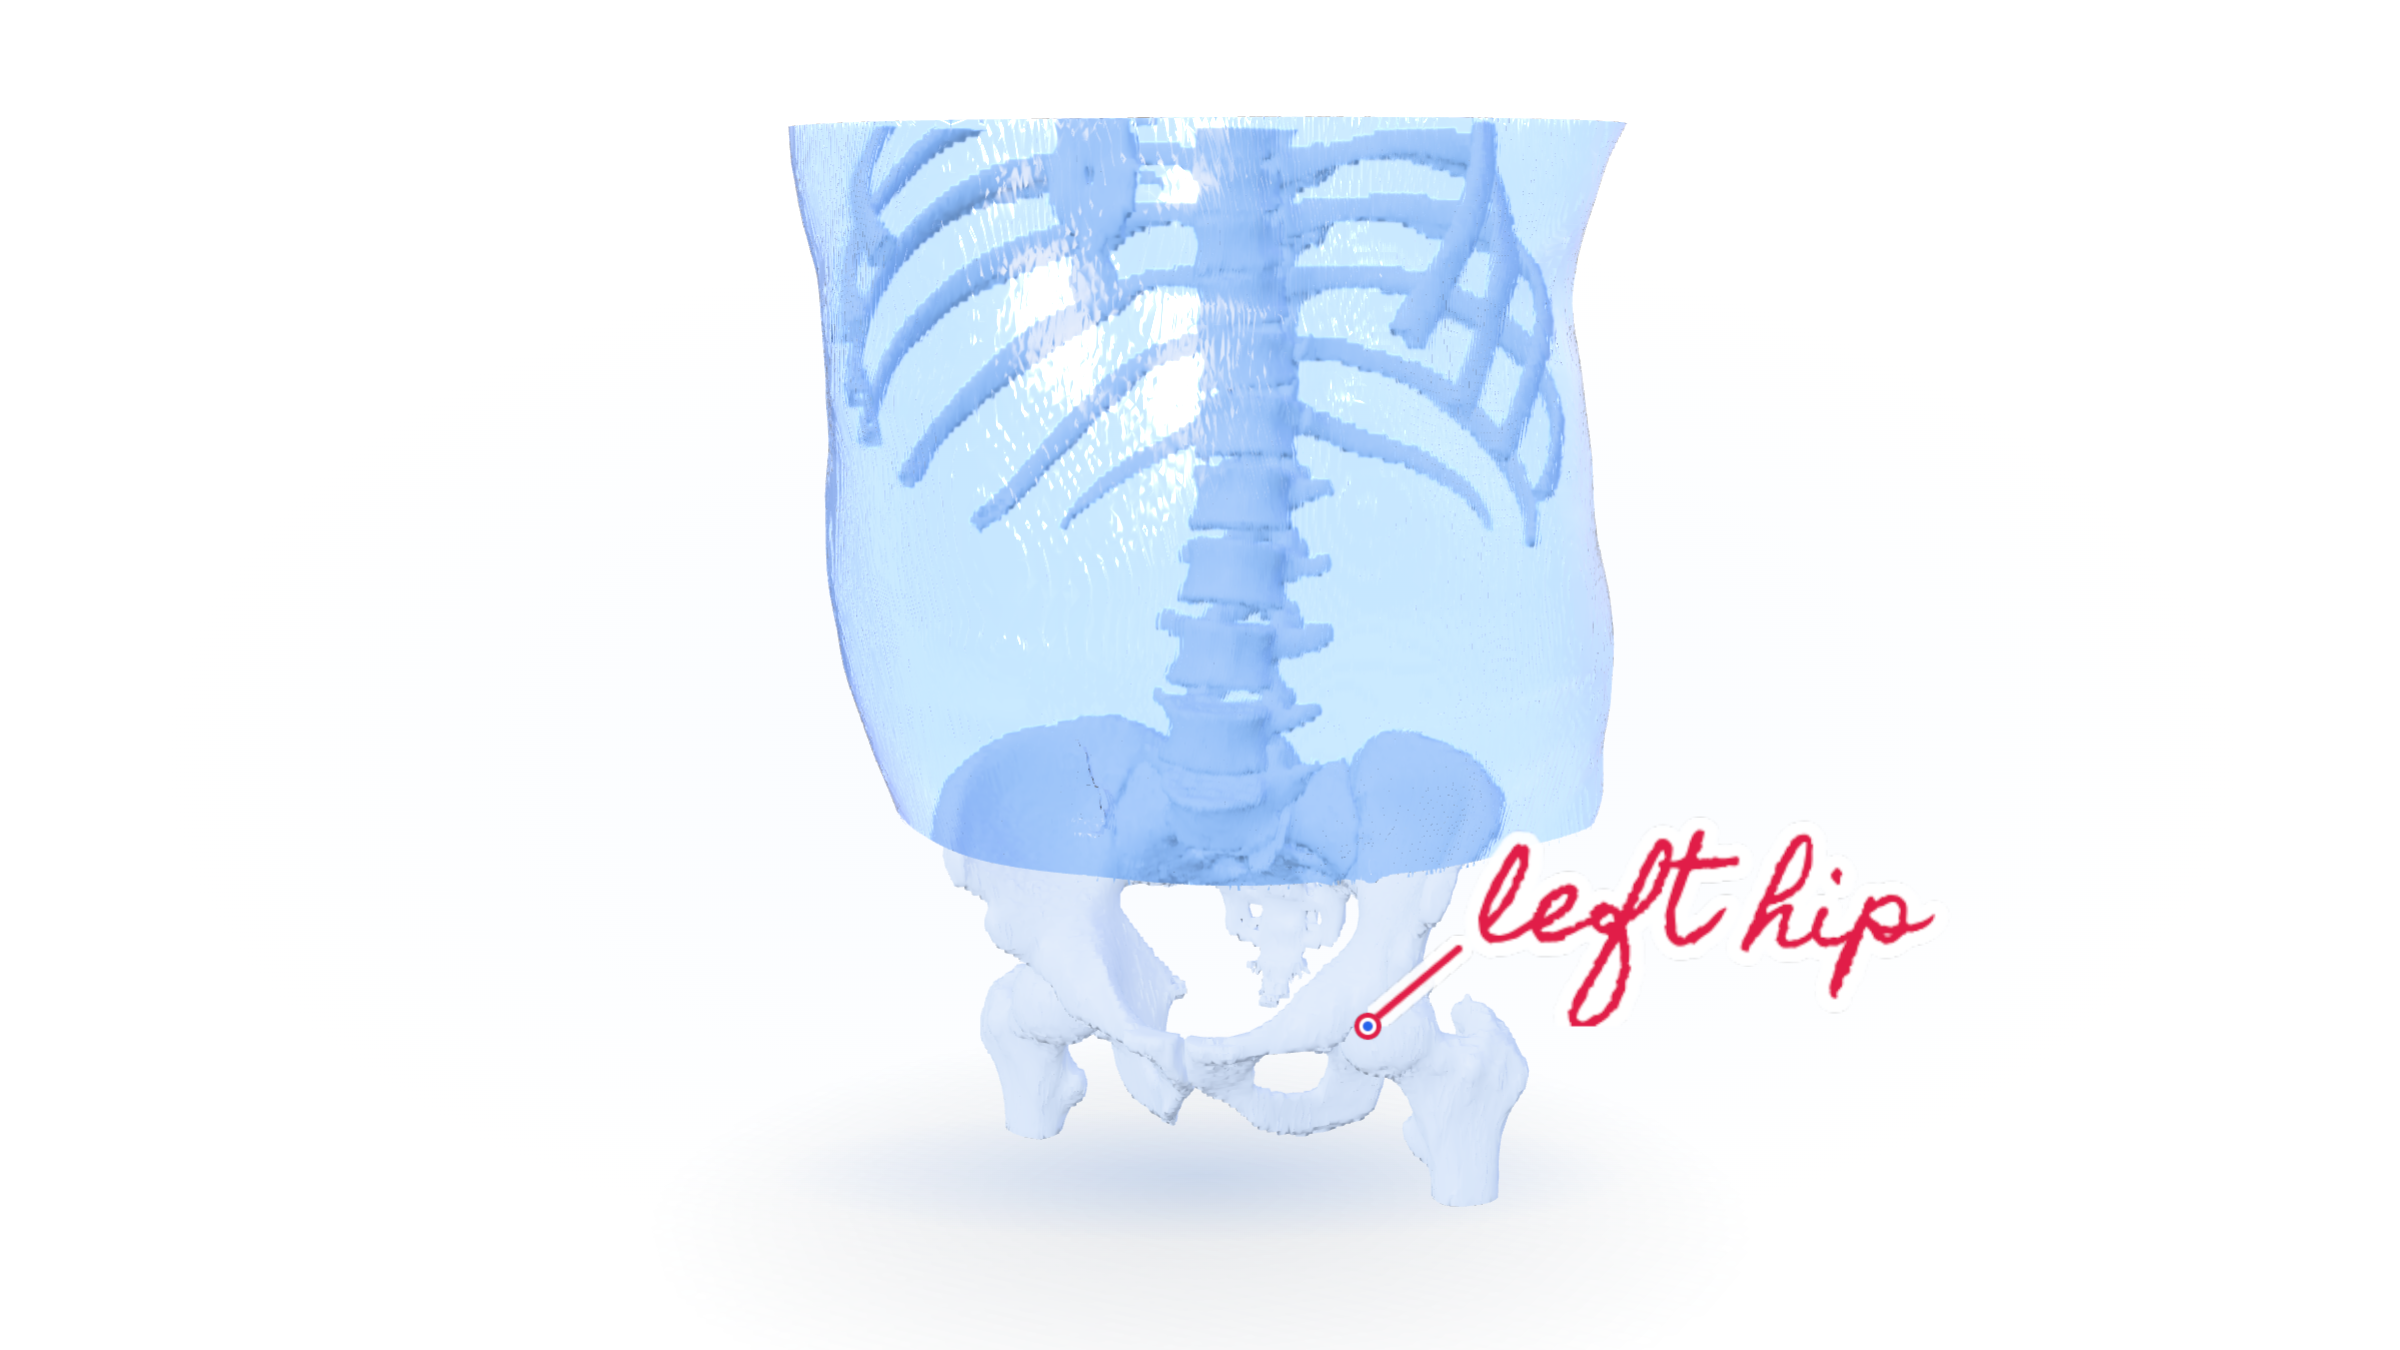
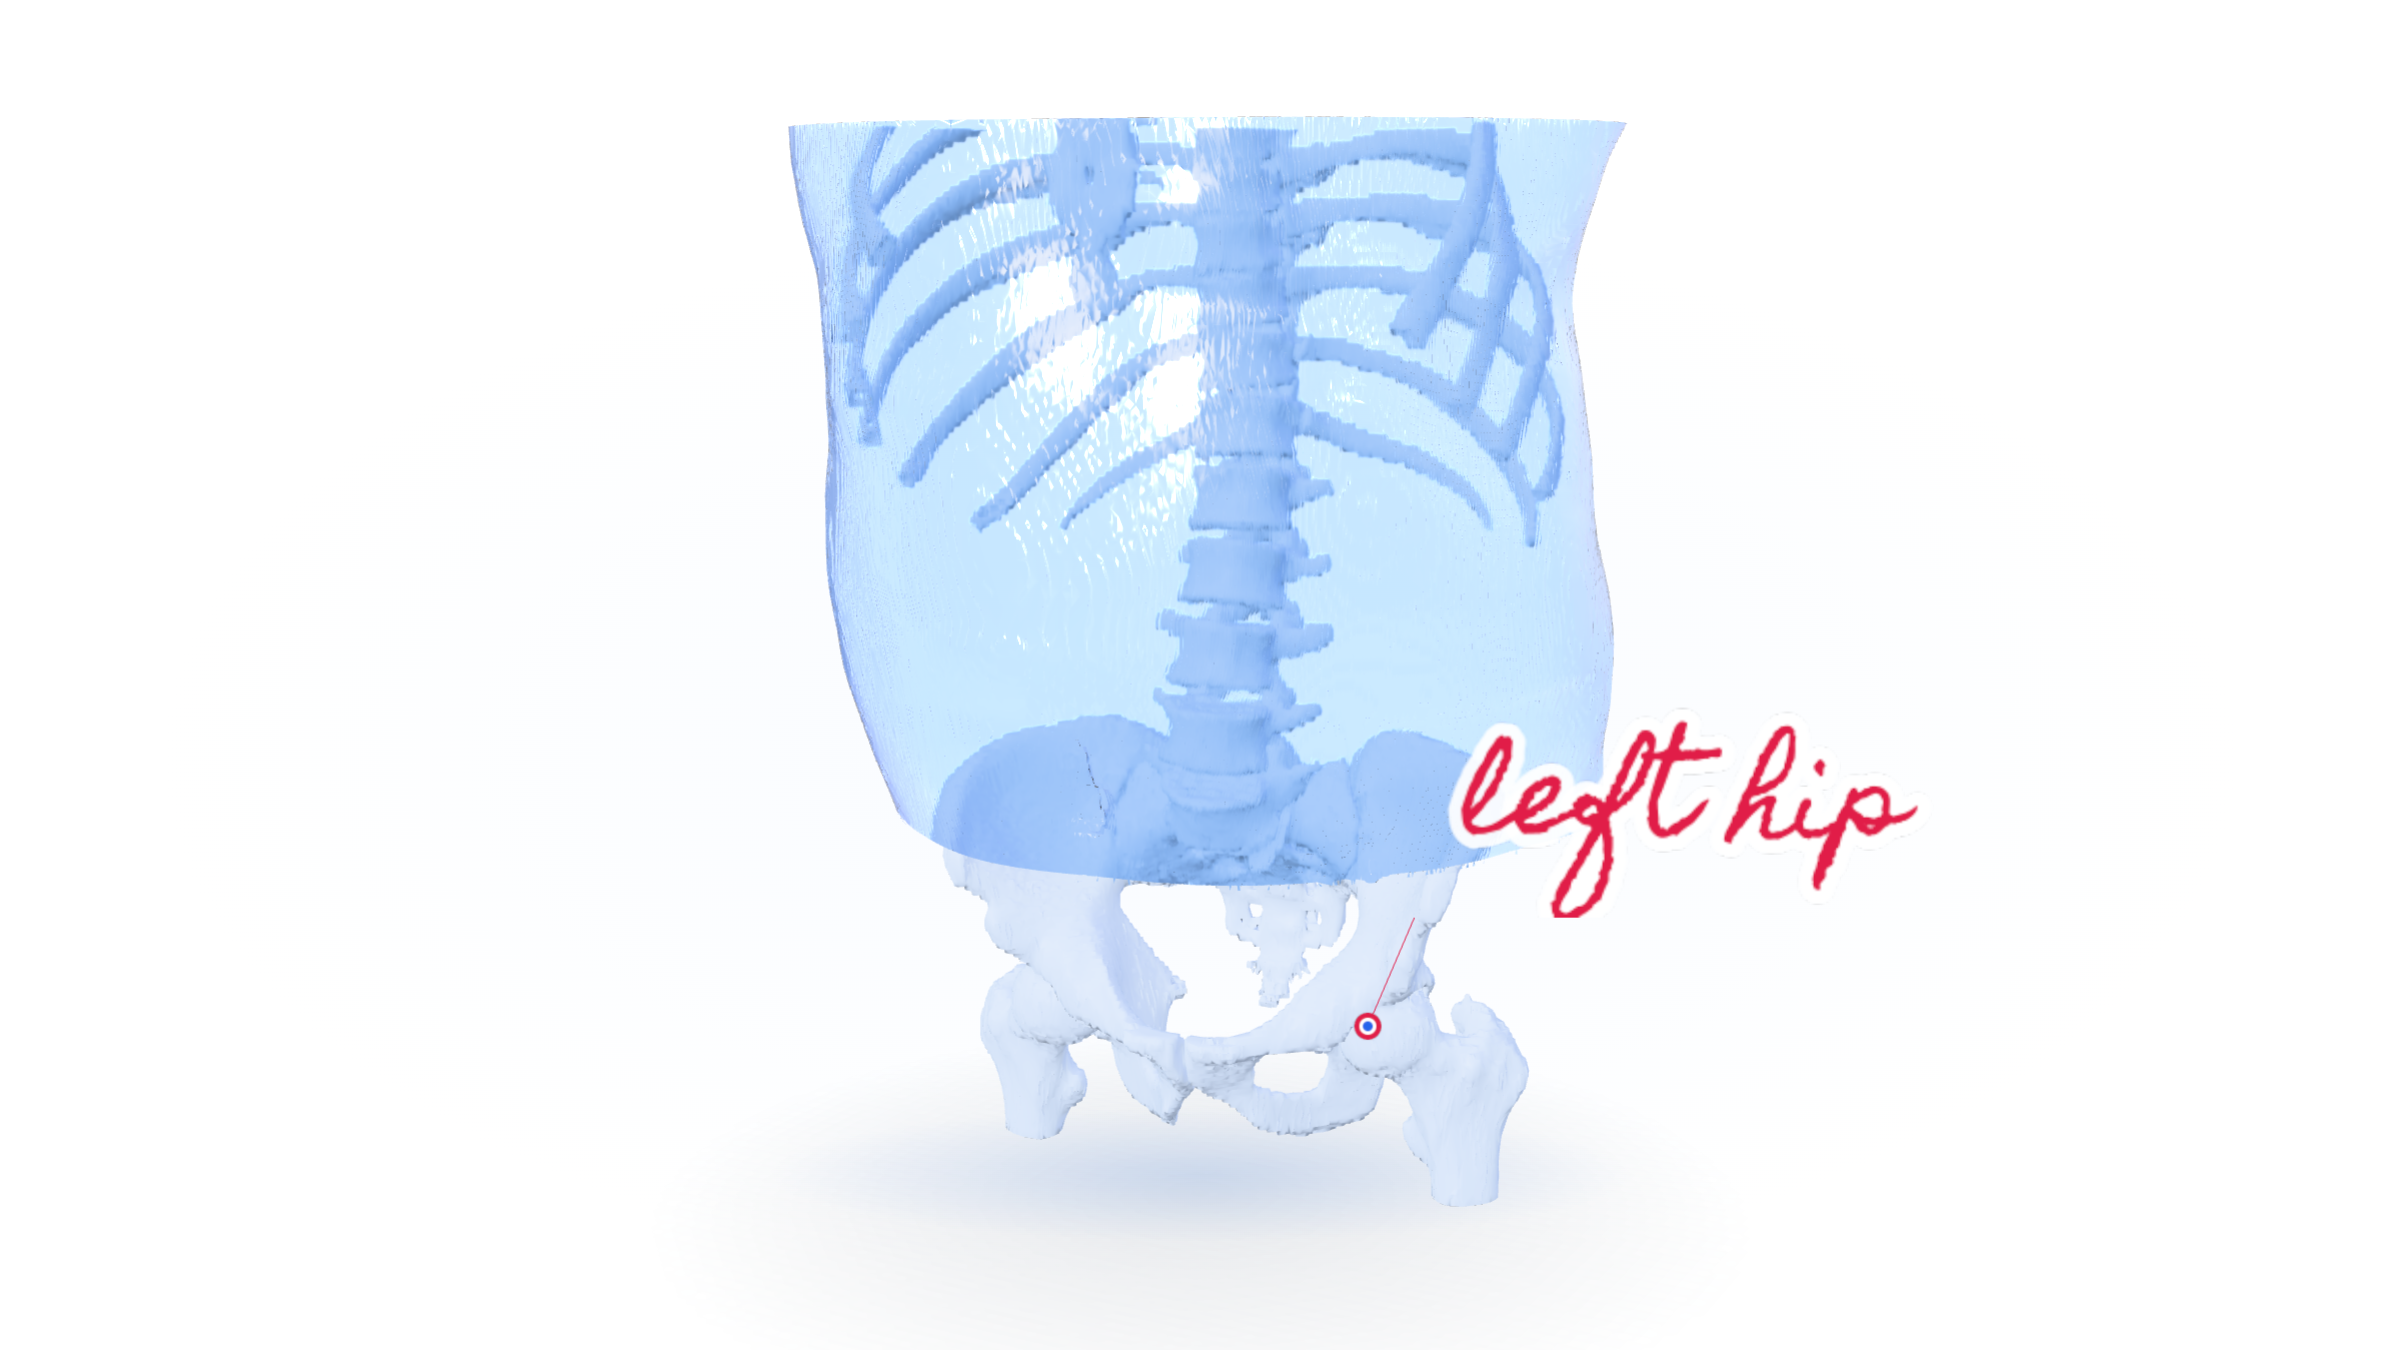
Recapture the README heroes from the final build
The together hero set the Skin button before the hero code hid the skin,
because the hero code waits for a new key first. The button now updates
after the hero is applied, so it reads Skin off. Both images come from
the current build on the Metal GPU.

Changed region(s): [[0.5938, 0.5289, 0.8125, 0.7778], [0.5625, 0.7156, 0.5938, 0.7778]]

diff --git a/web/src/main.ts b/web/src/main.ts
@@ -200,10 +200,9 @@ async function boot(): Promise<void> {
       bar.hidden = true;
       if (flags.hero && heroTransport) {
         const mode = flags.hero;
-        void v.stage.firstFrame.then(() => {
-          applyHero(mode, { viewer: v, engine, transport: heroTransport, model });
-          hud.setSkin(v.skinOn());
-        });
+        void v.stage.firstFrame
+          .then(() => applyHero(mode, { viewer: v, engine, transport: heroTransport, model }))
+          .then(() => hud.setSkin(v.skinOn()));
       }
       const ar = setupAr(v.stage, model, engine, {
         viewer: v,
